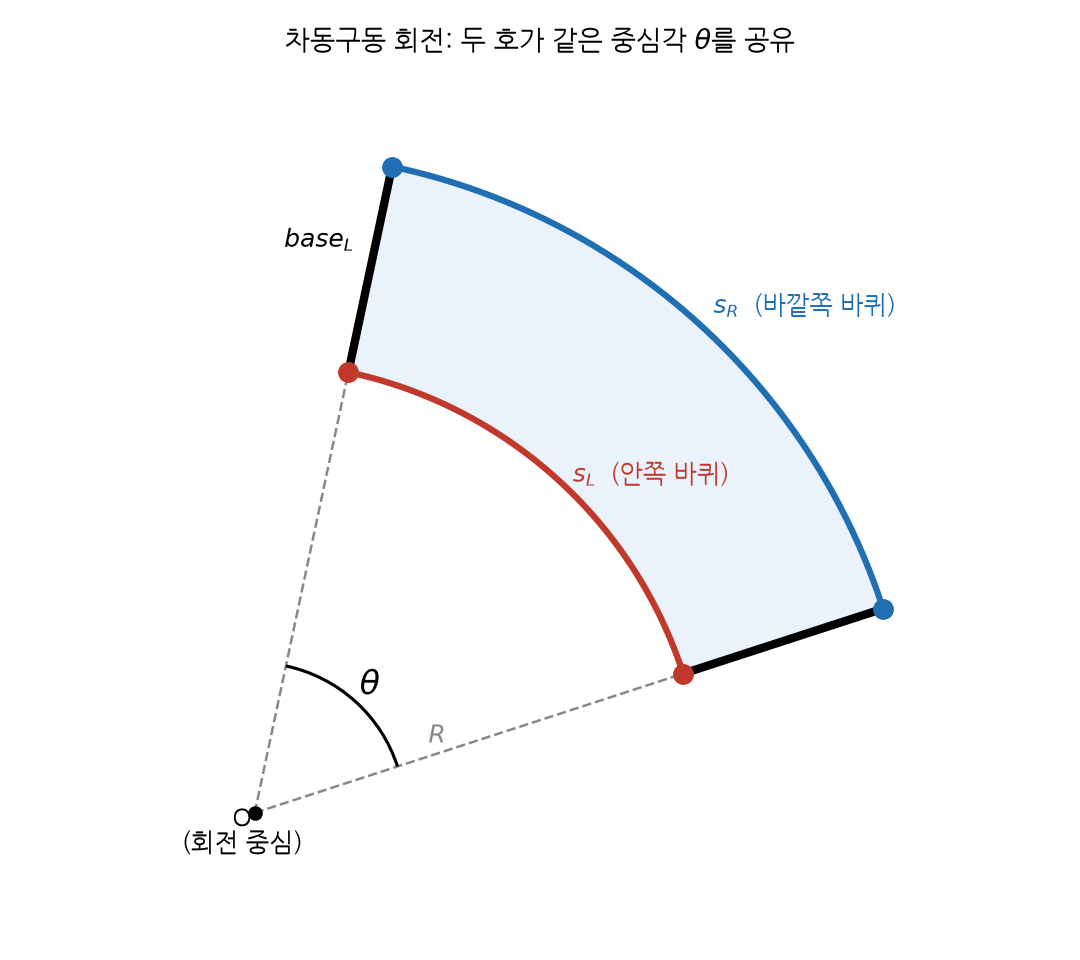
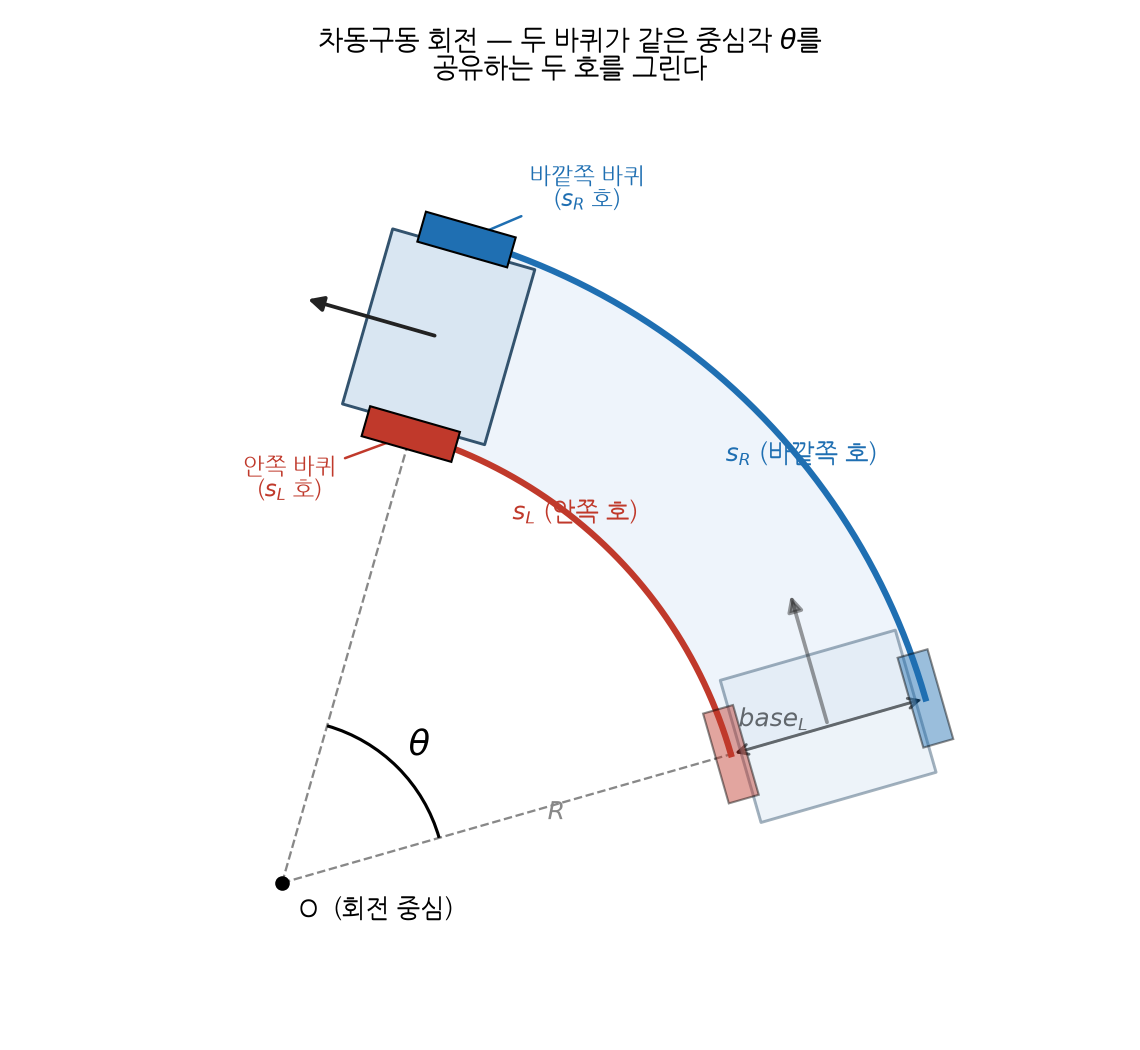
docs: unify Fig1 as micromouse+Korean, micromouse in Fig2, spin both alpha 0.5
- Fig1 (arc model) now uses the micromouse chassis+wheels style in Korean
  (folds in the old v2; remove the redundant fig1_v2 file/script).
- Fig2 (theta derivation) gets start/final micromice on the arcs.
- Fig3 spin-in-place panel: both start and final bodies at alpha 0.5 so both
  are visible where they overlap.

Claude-Session: https://claude.ai/code/session_01WfeNkPr3YZ7fYGJkDvNY7b

diff --git a/MotionSim/docs/figures/make_geometry_figs.py b/MotionSim/docs/figures/make_geometry_figs.py
@@ -24,66 +24,92 @@ def arc_pts(cx, cy, r, a0, a1, n=200):
     return cx + r*np.cos(a), cy + r*np.sin(a)
 
 
+def _rectpoly(c, along, across, L, W):
+    c = np.asarray(c, float)
+    return np.array([c + s1*L/2*along + s2*W/2*across
+                     for s1, s2 in [(1, 1), (1, -1), (-1, -1), (-1, 1)]])
+
+
+def _units(a_deg):
+    ar = np.radians(a_deg)
+    rad = np.array([np.cos(ar), np.sin(ar)])      # 반경 바깥방향(= 차축 방향)
+    head = np.array([-np.sin(ar), np.cos(ar)])    # 접선/진행방향(CCW)
+    return rad, head
+
+
+def mouse_on_arc(ax, R, base, a, alpha=1.0, body_c="#d9e6f2", edge="#33536e",
+                 label=False):
+    """반경 R(안쪽)·R+base(바깥쪽) 호 위, 중심각 a 위치에 마이크로마우스 배치.
+    안쪽 바퀴는 s_L 호, 바깥쪽 바퀴는 s_R 호에 정확히 놓인다."""
+    Rout = R + base
+    rad, head = _units(a)
+    inner, outer, mid = R*rad, Rout*rad, (R+Rout)/2*rad
+    ax.add_patch(Polygon(_rectpoly(mid, head, rad, 0.95, base*0.9), closed=True,
+                 facecolor=body_c, edgecolor=edge, lw=1.4, alpha=alpha, zorder=5,
+                 joinstyle="round"))
+    for c, col in ((inner, RED), (outer, BLUE)):
+        ax.add_patch(Polygon(_rectpoly(c, head, rad, 0.6, 0.2), closed=True,
+                     facecolor=col, edgecolor="k", lw=1.0, alpha=alpha, zorder=7))
+    ax.add_patch(FancyArrowPatch(mid, mid + 0.9*head, arrowstyle="-|>",
+                 mutation_scale=15, color="#222", lw=1.8, alpha=alpha, zorder=8))
+    if label:
+        ax.annotate("안쪽 바퀴\n($s_L$ 호)", inner, textcoords="offset points",
+                    xytext=(-58, -30), color=RED, fontsize=11, ha="center",
+                    arrowprops=dict(arrowstyle="->", color=RED, lw=1.2))
+        ax.annotate("바깥쪽 바퀴\n($s_R$ 호)", outer, textcoords="offset points",
+                    xytext=(58, 16), color=BLUE, fontsize=11, ha="center",
+                    arrowprops=dict(arrowstyle="->", color=BLUE, lw=1.2))
+
+
 # ============================================================ Fig 1: arc model
 def fig_model():
-    fig, ax = plt.subplots(figsize=(7.2, 6.4))
+    fig, ax = plt.subplots(figsize=(7.6, 7.0))
     O = (0.0, 0.0)
-    R, base = 3.0, 1.4          # inner radius, wheel base (radial gap)
-    a0, a1 = 18.0, 78.0          # swept angle (theta)
-    Rin, Rout = R, R + base
+    R, base = 3.0, 1.3
+    a0, a1 = 16.0, 74.0
+    Rout = R + base
 
-    # filled slice
-    ax.add_patch(Wedge(O, Rout, a0, a1, width=base, facecolor="#eaf2fb",
+    ax.add_patch(Wedge(O, Rout, a0, a1, width=base, facecolor="#eef4fb",
                        edgecolor="none", zorder=0))
+    ax.plot(*arc_pts(*O, R,    a0, a1), color=RED,  lw=3, zorder=2)   # s_L
+    ax.plot(*arc_pts(*O, Rout, a0, a1), color=BLUE, lw=3, zorder=2)   # s_R
 
-    # two arcs (wheel paths)
-    ax.plot(*arc_pts(*O, Rin,  a0, a1), color=RED,  lw=3, zorder=3)   # inner s_L
-    ax.plot(*arc_pts(*O, Rout, a0, a1), color=BLUE, lw=3, zorder=3)   # outer s_R
+    for a in (a0, a1):
+        rad, _ = _units(a)
+        ax.plot([0, Rout*rad[0]], [0, Rout*rad[1]], color=GRAY, lw=1.1, ls="--",
+                zorder=1)
+    mouse_on_arc(ax, R, base, a0, alpha=0.45)
+    mouse_on_arc(ax, R, base, a1, alpha=1.0, label=True)
 
-    # two radii (robot axle at start and end)
-    for a, lab in ((a0, "start"), (a1, "end")):
-        xi, yi = Rin*np.cos(np.radians(a)),  Rin*np.sin(np.radians(a))
-        xo, yo = Rout*np.cos(np.radians(a)), Rout*np.sin(np.radians(a))
-        ax.plot([0, xo], [0, yo], color=GRAY, lw=1.2, ls="--", zorder=1)
-        # axle (the robot) = segment between the two wheels
-        ax.plot([xi, xo], [yi, yo], color="k", lw=4, solid_capstyle="round", zorder=4)
-        ax.plot(xi, yi, "o", color=RED,  ms=9, zorder=5)
-        ax.plot(xo, yo, "o", color=BLUE, ms=9, zorder=5)
-
-    # theta arc at O
-    ax.add_patch(Arc(O, 2.0, 2.0, angle=0, theta1=a0, theta2=a1,
-                     color="k", lw=1.5))
+    ax.add_patch(Arc(O, 2.1, 2.1, theta1=a0, theta2=a1, color="k", lw=1.5))
     am = np.radians((a0+a1)/2)
-    ax.annotate(r"$\theta$", (1.15*np.cos(am), 1.15*np.sin(am)),
-                fontsize=16, ha="center", va="center")
+    ax.annotate(r"$\theta$", (1.25*np.cos(am), 1.25*np.sin(am)), fontsize=17,
+                ha="center", va="center")
     ax.plot(*O, "ko", ms=6)
-    ax.annotate("O\n(회전 중심)", O, textcoords="offset points",
-                xytext=(-6, -18), ha="center", color="k")
-
-    # radius label R (on start radius, inner part)
-    am0 = np.radians(a0)
-    ax.annotate(r"$R$", (0.5*Rin*np.cos(am0)-0.15, 0.5*Rin*np.sin(am0)),
-                color=GRAY, ha="right")
-
-    # arc length labels
-    xm_i, ym_i = arc_pts(*O, Rin,  (a0+a1)/2, (a0+a1)/2, 1)
-    xm_o, ym_o = arc_pts(*O, Rout, (a0+a1)/2, (a0+a1)/2, 1)
-    ax.annotate(r"$s_L$  (안쪽 바퀴)", (xm_i[0], ym_i[0]),
-                textcoords="offset points", xytext=(8, -2), color=RED, fontsize=12)
-    ax.annotate(r"$s_R$  (바깥쪽 바퀴)", (xm_o[0], ym_o[0]),
-                textcoords="offset points", xytext=(8, 4), color=BLUE, fontsize=12)
-
-    # base_L bracket on the 'end' axle
-    ax.annotate(r"$base_L$", ((Rin+Rout)/2*np.cos(np.radians(a1)) - 0.1,
-                              (Rin+Rout)/2*np.sin(np.radians(a1)) + 0.15),
-                color="k", ha="right", fontsize=12)
+    ax.annotate("O  (회전 중심)", O, textcoords="offset points", xytext=(8, -16),
+                ha="left")
+    rad0, _ = _units(a0)
+    ax.annotate(r"$R$", (0.55*R*rad0[0]+0.12, 0.55*R*rad0[1]-0.05), color=GRAY)
+    p_in, p_out = R*rad0, Rout*rad0
+    ax.annotate("", p_out, p_in, arrowprops=dict(arrowstyle="<->", color="k",
+                lw=1.4))
+    mid0 = (p_in+p_out)/2
+    ax.annotate(r"$base_L$", (mid0[0]-0.12, mid0[1]), color="k", ha="right",
+                fontsize=12)
+    xi, yi = arc_pts(*O, R,    (a0+a1)/2+6, (a0+a1)/2+6, 1)
+    xo, yo = arc_pts(*O, Rout, (a0+a1)/2-6, (a0+a1)/2-6, 1)
+    ax.annotate(r"$s_L$ (안쪽 호)", (xi[0], yi[0]), color=RED, fontsize=12,
+                ha="center")
+    ax.annotate(r"$s_R$ (바깥쪽 호)", (xo[0], yo[0]), color=BLUE, fontsize=12,
+                ha="center")
 
     ax.set_aspect("equal"); ax.axis("off")
-    ax.set_title("차동구동 회전: 두 호가 같은 중심각 " r"$\theta$" "를 공유",
-                 fontsize=13)
-    ax.set_xlim(-1.2, Rout+0.6); ax.set_ylim(-0.8, Rout+0.6)
+    ax.set_title("차동구동 회전 — 두 바퀴가 같은 중심각 " r"$\theta$" "를\n"
+                 "공유하는 두 호를 그린다", fontsize=13)
+    ax.set_xlim(-1.3, Rout+0.7); ax.set_ylim(-0.9, Rout+0.8)
     fig.tight_layout(); fig.savefig(f"{OUT}/fig1_arc_model.png", dpi=150)
     plt.close(fig)
+
 
 
 # ====================================================== Fig 2: theta derivation
@@ -101,6 +127,8 @@ def fig_derivation():
     for a in (a0, a1):
         xo, yo = Rout*np.cos(np.radians(a)), Rout*np.sin(np.radians(a))
         ax.plot([0, xo], [0, yo], color=GRAY, lw=1.2, ls="--")
+    mouse_on_arc(ax, R, base, a0, alpha=0.45)     # 시작 자세
+    mouse_on_arc(ax, R, base, a1, alpha=1.0)      # 최종 자세
     ax.add_patch(Arc(O, 1.6, 1.6, theta1=a0, theta2=a1, color="k", lw=1.5))
     am = np.radians((a0+a1)/2)
     ax.annotate(r"$\theta$", (0.95*np.cos(am), 0.95*np.sin(am)), fontsize=15,
@@ -132,12 +160,6 @@ def fig_derivation():
 
 
 # ======================================================= Fig 3: special cases
-def _rectpoly(c, along, across, L, W):
-    c = np.asarray(c, float)
-    return np.array([c + s1*L/2*along + s2*W/2*across
-                     for s1, s2 in [(1, 1), (1, -1), (-1, -1), (-1, 1)]])
-
-
 def mouse_sc(ax, center, heading_deg, base=1.1, alpha=1.0, body_c="#d9e6f2",
              edge="#33536e", wL=RED, wR=BLUE, arrow=True):
     """마이크로마우스(섀시+양 바퀴+진행화살표). center=차축 중점, heading=진행방향."""
@@ -186,9 +208,9 @@ def fig_special():
     ax.add_patch(FancyArrowPatch((rr*np.sin(phi[-2]), rr*np.cos(phi[-2])),
                  (rr*np.sin(phi[-1]), rr*np.cos(phi[-1])), arrowstyle="-|>",
                  mutation_scale=14, color=GRAY, lw=1.4))      # 시계방향 표시
-    # 시작(검정, 12시) / 최종(초록, 4시=heading -30deg)
+    # 시작 / 최종 둘 다 alpha=0.5 (겹쳐도 둘 다 보이게)
     mouse_sc(ax, O, 90, base=BASE, alpha=0.5)
-    mouse_sc(ax, O, 90 - 120, base=BASE, body_c="#dff0e4", edge=GREEN)
+    mouse_sc(ax, O, 90 - 120, base=BASE, alpha=0.5, body_c="#dff0e4", edge=GREEN)
     ax.plot(*O, "ko", ms=5, zorder=9)
     # 바퀴 속도 방향(L=+V 전진, R=-V 후진) -> 시계방향
     ax.add_patch(FancyArrowPatch((-BASE/2, -0.18), (-BASE/2, 0.55),